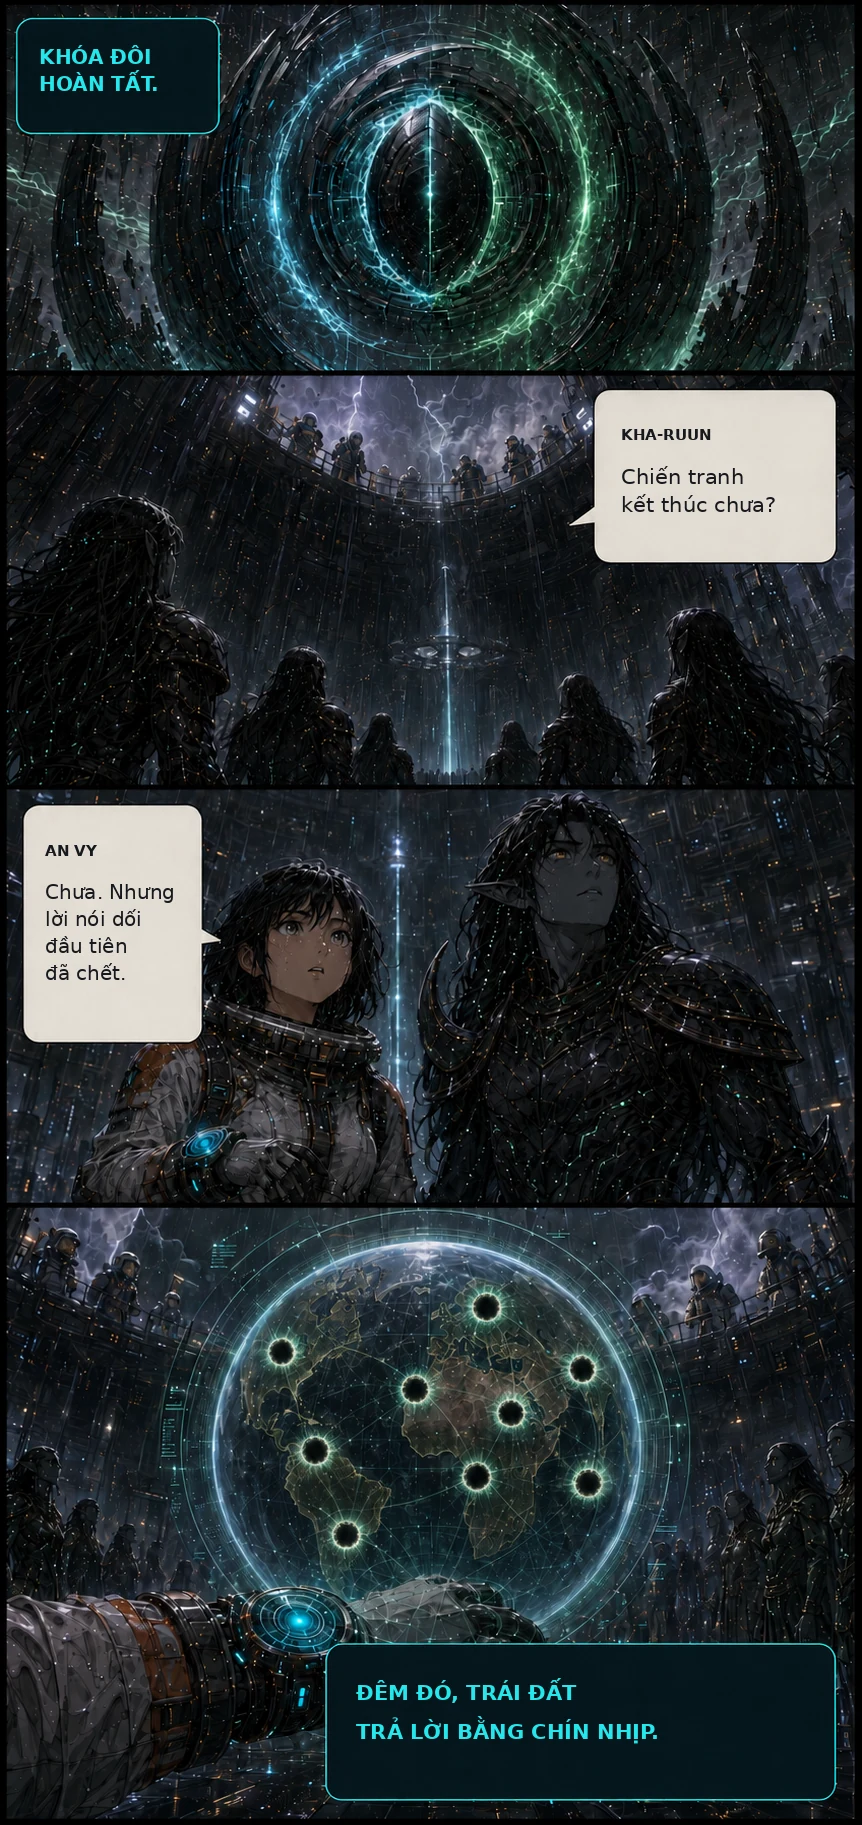
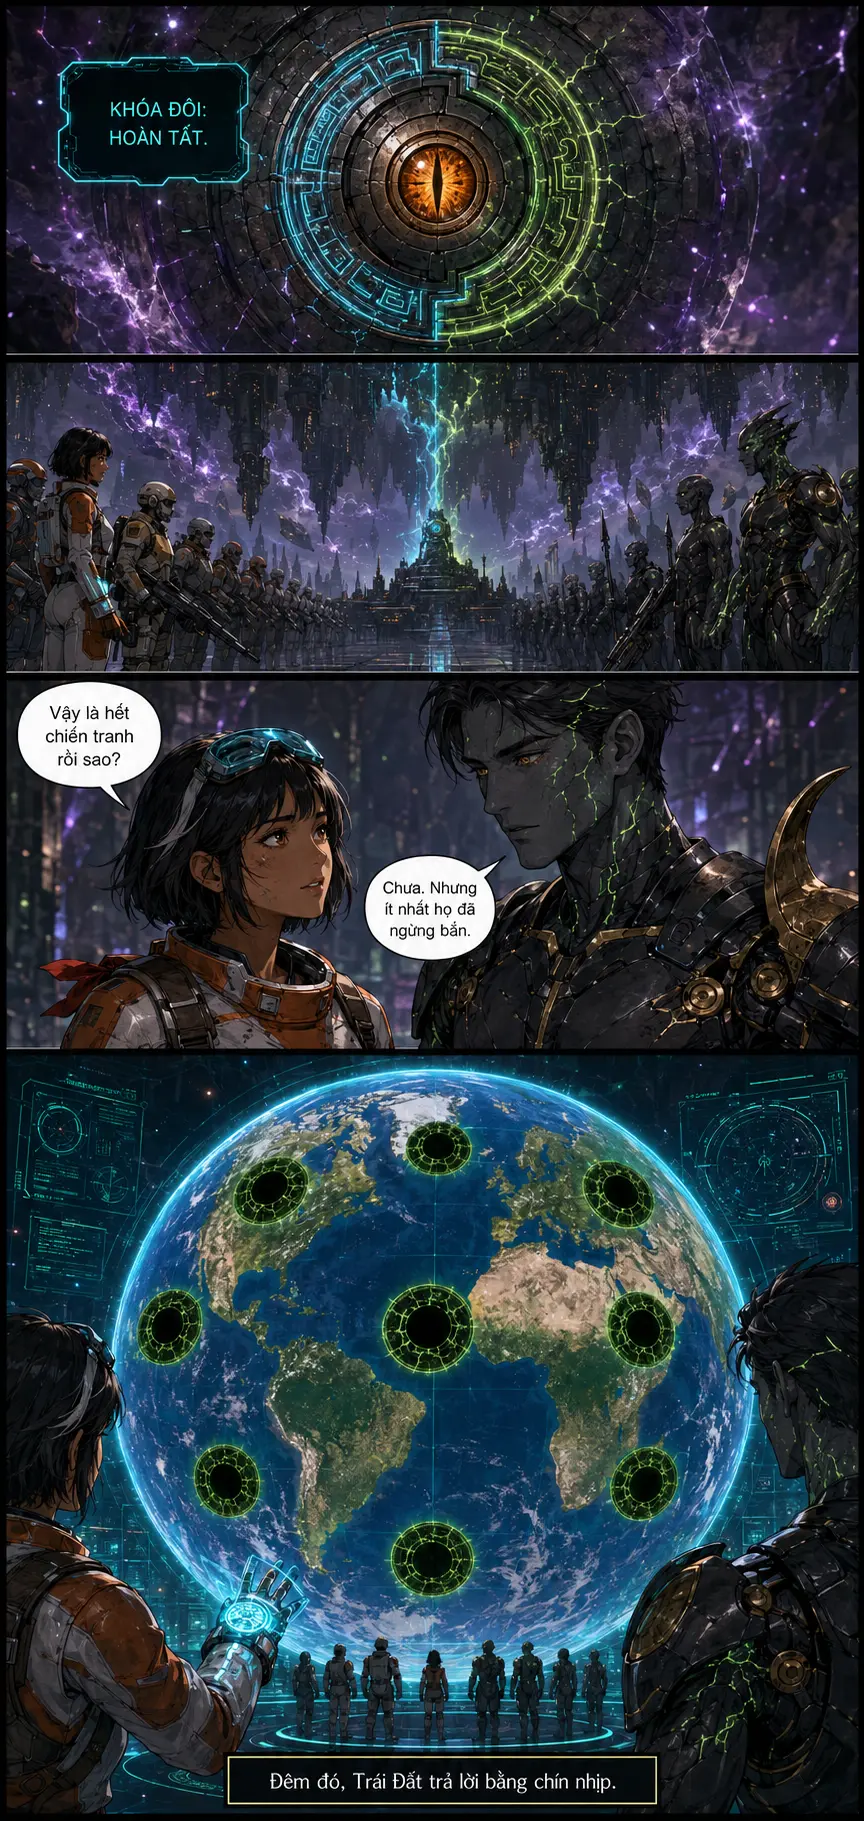
Làm tự nhiên thoại trang 11-12 Vết Thủng 2237

diff --git a/vet-thung-2237/story-data.js b/vet-thung-2237/story-data.js
@@ -13,7 +13,7 @@ const STORY = {
     {number: 8, image: 'assets/pages/page-08.webp?v=dialogue-20260811-p78', title: 'Hai phía khai hỏa', alt: 'An Vy và Kha-Ruun phát hiện đầu đạn bề mặt cùng pháo địa nhiệt bị mệnh lệnh giả điều khiển'},
     {number: 9, image: 'assets/pages/page-09.webp?v=dialogue-20260811-p910', title: 'Mắt mở', alt: 'An Vy và Kha-Ruun thấy Mắt Rơi hút hai luồng nhiệt rồi mở thành một mống mắt cơ khí'},
     {number: 10, image: 'assets/pages/page-10.webp?v=dialogue-20260811-p910', title: 'Khóa đôi', alt: 'Thiết bị cổ tay An Vy và vân Nham của Kha-Ruun cùng kích hoạt hai nửa khóa'},
-    {number: 11, image: 'assets/pages/page-11.webp', title: 'Một giây ngừng bắn', alt: 'Chỉ huy Bách hủy đầu đạn khi An Vy phát bằng chứng giả mạo'},
-    {number: 12, image: 'assets/pages/page-12.webp', title: 'Những vết thủng khác', alt: 'Bản đồ Trái Đất hiện chín điểm Vết Thủng sau khi Mắt Rơi bị khóa'}
+    {number: 11, image: 'assets/pages/page-11.webp?v=dialogue-20260811-p1112', title: 'Một giây ngừng bắn', alt: 'An Vy phát bằng chứng gốc để Bách và Hội Đồng Nham cùng ra lệnh ngừng bắn'},
+    {number: 12, image: 'assets/pages/page-12.webp?v=dialogue-20260811-p1112', title: 'Những vết thủng khác', alt: 'An Vy và Kha-Ruun nhìn bản đồ Trái Đất hiện đúng chín tín hiệu Vết Thủng'}
   ]
 };

diff --git a/vet-thung-2237/index.html b/vet-thung-2237/index.html
@@ -75,7 +75,7 @@
     </nav>
   </section>
 
-  <script src="story-data.js?v=dialogue-20260811-p910"></script>
+  <script src="story-data.js?v=dialogue-20260811-p1112"></script>
   <script src="app.js"></script>
 </body>
 </html>

diff --git a/vet-thung-2237/docs/qa-log.md b/vet-thung-2237/docs/qa-log.md
@@ -68,7 +68,17 @@
 - Đã giữ đúng một Mắt Rơi mở thành mống mắt hổ phách, thiết bị cyan trên cổ tay phải An Vy, hình người cao gầy cùng giáp vai phải của Kha-Ruun.
 - Đã đối chiếu đủ năm mục chữ trang 9 và sáu mục chữ trang 10; không có nhãn tên, chữ thừa, chữ bị cắt hoặc hộp thoại kiểu giao diện.
 
+## Audit thoại tự nhiên trang 11–12 — 11/08/2026
+
+- Đã thay mới trang 11 “Một giây ngừng bắn” và trang 12 “Những vết thủng khác” bằng ảnh gen hoàn chỉnh cùng bong bóng thoại tiếng Việt.
+- Trang 11 chuyển đoạn giải thích dài thành cuộc đối đáp trực tiếp: An Vy đưa bằng chứng, Bách chỉ cho một giây, rồi cả Bách và Hội Đồng Nham tự ra lệnh dừng vũ khí.
+- Trang 12 để Kha-Ruun hỏi về kết thúc chiến tranh và An Vy trả lời ngắn, dè dặt; câu dẫn cuối giữ vai trò móc nối sang bí ẩn tiếp theo.
+- Đã giữ sẹo qua lông mày trái của Bách, thiết bị cyan trên cổ tay phải An Vy, hình người cao gầy cùng giáp vai phải của Kha-Ruun và một Mắt Rơi duy nhất.
+- Đã đếm trực tiếp đúng chín tín hiệu Vết Thủng trên địa cầu ở khung cuối; không có điểm thứ mười hoặc điểm trang trí dễ gây nhầm.
+- Đã đối chiếu đủ sáu mục chữ trang 11 và bốn mục chữ trang 12; không có nhãn tên, chữ bị cắt hoặc hộp thoại kiểu giao diện.
+
 ## Trạng thái
 
 - Chương 1 hoàn tất: 12/12 trang.
-- Lượt audit tiếp theo tiếp tục làm mềm thoại và thay trang 11–12 theo chuẩn bong bóng thoại mới.
+- Toàn bộ 12 trang đã được thay hoặc duyệt theo chuẩn thoại tự nhiên nằm trực tiếp trong ảnh.
+- Lượt audit tiếp theo rà soát đồng bộ toàn chương về tỷ lệ nhân vật, hướng phụ kiện, cỡ chữ và nhịp chuyển cảnh.

diff --git a/vet-thung-2237/chapters/chuong-01.md b/vet-thung-2237/chapters/chuong-01.md
@@ -85,16 +85,18 @@
 
 ### Trang 11 — Một giây ngừng bắn
 
-- Hệ cứu hộ: “Phát toàn kênh. Bằng chứng gốc.”
-- Bách: “Ta cho cô một giây.”
-- Hệ thống: “Đầu đạn: hủy. Pháo Nham: tắt.”
-- An Vy: “Một giây là đủ để ngừng một cuộc chiến. Chưa đủ để tha thứ.”
+- Hệ cứu hộ: “Kênh gốc: phát toàn kênh.”
+- An Vy: “Bách, nghe tôi! Mệnh lệnh tấn công là giả!”
+- Bách: “Cô có một giây.”
+- An Vy: “Vậy nhìn cho kỹ.”
+- Bách: “Hủy đầu đạn.”
+- Hội Đồng Nham: “Tắt pháo.”
 
 ### Trang 12 — Những vết thủng khác
 
-- Hệ thống: “Khóa đôi hoàn tất.”
-- Kha-Ruun: “Chiến tranh kết thúc chưa?”
-- An Vy: “Chưa. Nhưng lời nói dối đầu tiên đã chết.”
+- Hệ thống: “Khóa đôi: hoàn tất.”
+- Kha-Ruun: “Vậy là hết chiến tranh rồi sao?”
+- An Vy: “Chưa. Nhưng ít nhất họ đã ngừng bắn.”
 - Dẫn kết: “Đêm đó, Trái Đất trả lời bằng chín nhịp.”
 
 ## Chương 1 hoàn tất
